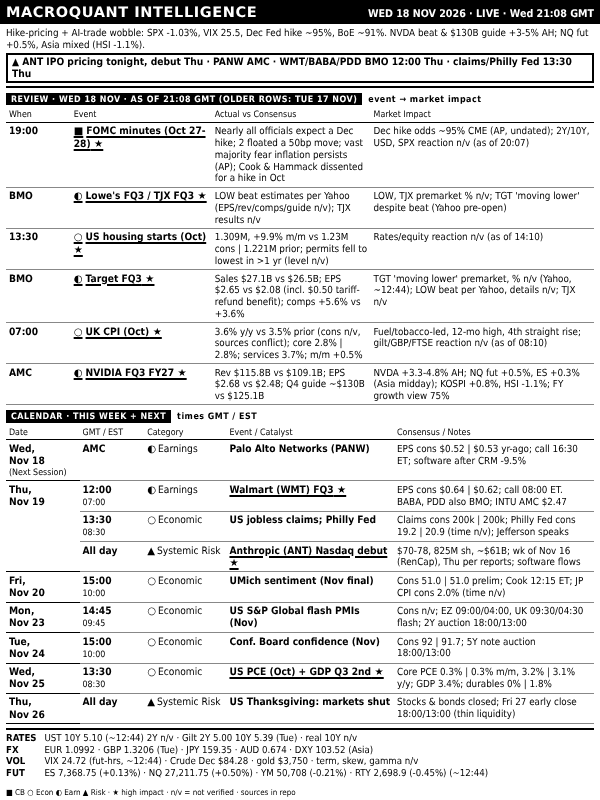
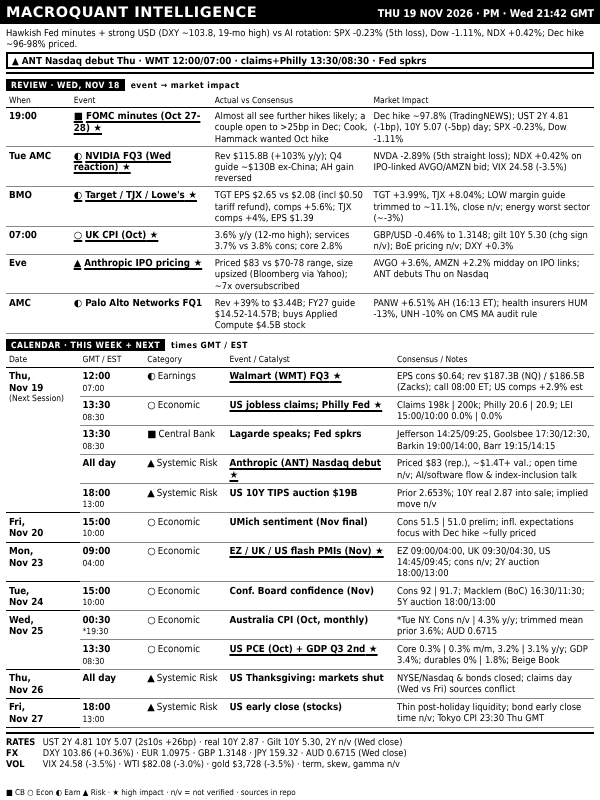
dashboard: THU 19 NOV 2026 PM
Claude-Session: https://claude.ai/code/session_016SJqa6nqQUeuUDpDvfcpZ9

Changed region(s): [[0.0, 0.0, 0.99, 0.9688]]

diff --git a/out/dashboard.html b/out/dashboard.html
@@ -38,12 +38,12 @@ table.bd{border-collapse:collapse;width:100%;table-layout:fixed;margin-top:1px}
 </style></head><body>
 <div id="root">
  <div class="hdr"><span class="t">MACROQUANT INTELLIGENCE</span>
-  <span class="r">WED 18 NOV 2026 · LIVE · Wed 21:08 GMT</span></div>
- <div class="ban"><div class="rg">Hike-pricing + AI-trade wobble: SPX -1.03%, VIX 25.5, Dec Fed hike ~95%, BoE ~91%. NVDA beat &amp; $130B guide +3-5% AH; NQ fut +0.5%, Asia mixed (HSI -1.1%).</div><div class="al">▲ ANT IPO pricing tonight, debut Thu · PANW AMC · WMT/BABA/PDD BMO 12:00 Thu · claims/Philly Fed 13:30 Thu</div></div>
- <div class="sl"><span>REVIEW · WED 18 NOV · AS OF 21:08 GMT (OLDER ROWS: TUE 17 NOV)</span>event → market impact</div><table class="bd rv"><colgroup><col style="width:11%"><col style="width:24%"><col style="width:27%"><col></colgroup><tr><th>When</th><th>Event</th><th>Actual vs Consensus</th><th>Market Impact</th></tr><tr class="h"><td class="tm"><b>19:00</b></td><td class="ev"><i>■</i>FOMC minutes (Oct 27-28)</td><td class="ac">Nearly all officials expect a Dec hike; 2 floated a 50bp move; vast majority fear inflation persists (AP); Cook &amp; Hammack dissented for a hike in Oct</td><td class="nt">Dec hike odds ~95% CME (AP, undated); 2Y/10Y, USD, SPX reaction n/v (as of 20:07)</td></tr><tr class="h"><td class="tm"><b>BMO</b></td><td class="ev"><i>◐</i>Lowe's FQ3 / TJX FQ3</td><td class="ac">LOW beat estimates per Yahoo (EPS/rev/comps/guide n/v); TJX results n/v</td><td class="nt">LOW, TJX premarket % n/v; TGT 'moving lower' despite beat (Yahoo pre-open)</td></tr><tr class="h"><td class="tm"><b>13:30</b></td><td class="ev"><i>○</i>US housing starts (Oct)</td><td class="ac">1.309M, +9.9% m/m vs 1.23M cons | 1.221M prior; permits fell to lowest in &gt;1 yr (level n/v)</td><td class="nt">Rates/equity reaction n/v (as of 14:10)</td></tr><tr class="h"><td class="tm"><b>BMO</b></td><td class="ev"><i>◐</i>Target FQ3</td><td class="ac">Sales $27.1B vs $26.5B; EPS $2.65 vs $2.08 (incl. $0.50 tariff-refund benefit); comps +5.6% vs +3.6%</td><td class="nt">TGT 'moving lower' premarket, % n/v (Yahoo, ~12:44); LOW beat per Yahoo, details n/v; TJX n/v</td></tr><tr class="h"><td class="tm"><b>07:00</b></td><td class="ev"><i>○</i>UK CPI (Oct)</td><td class="ac">3.6% y/y vs 3.5% prior (cons n/v, sources conflict); core 2.8% | 2.8%; services 3.7%; m/m +0.5%</td><td class="nt">Fuel/tobacco-led, 12-mo high, 4th straight rise; gilt/GBP/FTSE reaction n/v (as of 08:10)</td></tr><tr class="h"><td class="tm"><b>AMC</b></td><td class="ev"><i>◐</i>NVIDIA FQ3 FY27</td><td class="ac">Rev $115.8B vs $109.1B; EPS $2.68 vs $2.48; Q4 guide ~$130B vs $125.1B</td><td class="nt">NVDA +3.3-4.8% AH; NQ fut +0.5%, ES +0.3% (Asia midday); KOSPI +0.8%, HSI -1.1%; FY growth view 75%</td></tr></table>
+  <span class="r">THU 19 NOV 2026 · PM · Wed 21:42 GMT</span></div>
+ <div class="ban"><div class="rg">Hawkish Fed minutes + strong USD (DXY ~103.8, 19-mo high) vs AI rotation: SPX -0.23% (5th loss), Dow -1.11%, NDX +0.42%; Dec hike ~96-98% priced.</div><div class="al">▲ ANT Nasdaq debut Thu · WMT 12:00/07:00 · claims+Philly 13:30/08:30 · Fed spkrs</div></div>
+ <div class="sl"><span>REVIEW · WED, NOV 18</span>event → market impact</div><table class="bd rv"><colgroup><col style="width:11%"><col style="width:24%"><col style="width:27%"><col></colgroup><tr><th>When</th><th>Event</th><th>Actual vs Consensus</th><th>Market Impact</th></tr><tr class="h"><td class="tm"><b>19:00</b></td><td class="ev"><i>■</i>FOMC minutes (Oct 27-28)</td><td class="ac">Almost all see further hikes likely; a couple open to &gt;25bp in Dec; Cook, Hammack wanted Oct hike</td><td class="nt">Dec hike ~97.8% (TradingNEWS); UST 2Y 4.81 (-1bp), 10Y 5.07 (-5bp) day; SPX -0.23%, Dow -1.11%</td></tr><tr class="h"><td class="tm"><b>Tue AMC</b></td><td class="ev"><i>◐</i>NVIDIA FQ3 (Wed reaction)</td><td class="ac">Rev $115.8B (+103% y/y); Q4 guide ~$130B ex-China; AH gain reversed</td><td class="nt">NVDA -2.89% (5th straight loss); NDX +0.42% on IPO-linked AVGO/AMZN bid; VIX 24.58 (-3.5%)</td></tr><tr class="h"><td class="tm"><b>BMO</b></td><td class="ev"><i>◐</i>Target / TJX / Lowe's</td><td class="ac">TGT EPS $2.65 vs $2.08 (incl $0.50 tariff refund), comps +5.6%; TJX comps +4%, EPS $1.39</td><td class="nt">TGT +3.99%, TJX +8.04%; LOW margin guide trimmed to ~11.1%, close n/v; energy worst sector (~-3%)</td></tr><tr class="h"><td class="tm"><b>07:00</b></td><td class="ev"><i>○</i>UK CPI (Oct)</td><td class="ac">3.6% y/y (12-mo high); services 3.7% vs 3.8% cons; core 2.8%</td><td class="nt">GBP/USD -0.46% to 1.3148; gilt 10Y 5.30 (chg sign n/v); BoE pricing n/v; DXY +0.3%</td></tr><tr class="h"><td class="tm"><b>Eve</b></td><td class="ev"><i>▲</i>Anthropic IPO pricing</td><td class="ac">Priced $83 vs $70-78 range, size upsized (Bloomberg via Yahoo); ~7x oversubscribed</td><td class="nt">AVGO +3.6%, AMZN +2.2% midday on IPO links; ANT debuts Thu on Nasdaq</td></tr><tr><td class="tm"><b>AMC</b></td><td class="ev"><i>◐</i>Palo Alto Networks FQ1</td><td class="ac">Rev +39% to $3.44B; FY27 guide $14.52-14.57B; buys Applied Compute $4.5B stock</td><td class="nt">PANW +6.51% AH (16:13 ET); health insurers HUM -13%, UNH -10% on CMS MA audit rule</td></tr></table>
  <div class="sl"><span>CALENDAR · THIS WEEK + NEXT</span>times GMT / EST</div>
- <table class="bd"><colgroup><col style="width:12.5%"><col style="width:11%"><col style="width:14%"><col style="width:28.5%"><col></colgroup><tr><th>Date</th><th>GMT / EST</th><th>Category</th><th>Event / Catalyst</th><th>Consensus / Notes</th></tr><tr class="g0"><td class="dt" rowspan="1">Wed,<br>Nov&nbsp;18<span class="tg">(Next Session)</span></td><td class="tm"><b>AMC</b></td><td class="ct"><i>◐</i>Earnings</td><td class="ev">Palo Alto Networks (PANW)</td><td class="nt">EPS cons $0.52 | $0.53 yr-ago; call 16:30 ET; software after CRM -9.5%</td></tr><tr class="g0 h"><td class="dt" rowspan="3">Thu,<br>Nov&nbsp;19</td><td class="tm"><b>12:00</b><span>07:00</span></td><td class="ct"><i>◐</i>Earnings</td><td class="ev">Walmart (WMT) FQ3</td><td class="nt">EPS cons $0.64 | $0.62; call 08:00 ET. BABA, PDD also BMO; INTU AMC $2.47</td></tr><tr class=""><td class="tm"><b>13:30</b><span>08:30</span></td><td class="ct"><i>○</i>Economic</td><td class="ev">US jobless claims; Philly Fed</td><td class="nt">Claims cons 200k | 200k; Philly Fed cons 19.2 | 20.9 (time n/v); Jefferson speaks</td></tr><tr class="h"><td class="tm"><b>All day</b></td><td class="ct"><i>▲</i>Systemic Risk</td><td class="ev">Anthropic (ANT) Nasdaq debut</td><td class="nt">$70-78, 825M sh, ~$61B; wk of Nov 16 (RenCap), Thu per reports; software flows</td></tr><tr class="g0"><td class="dt" rowspan="1">Fri,<br>Nov&nbsp;20</td><td class="tm"><b>15:00</b><span>10:00</span></td><td class="ct"><i>○</i>Economic</td><td class="ev">UMich sentiment (Nov final)</td><td class="nt">Cons 51.0 | 51.0 prelim; Cook 12:15 ET; JP CPI cons 2.0% (time n/v)</td></tr><tr class="g0"><td class="dt" rowspan="1">Mon,<br>Nov&nbsp;23</td><td class="tm"><b>14:45</b><span>09:45</span></td><td class="ct"><i>○</i>Economic</td><td class="ev">US S&amp;P Global flash PMIs (Nov)</td><td class="nt">Cons n/v; EZ 09:00/04:00, UK 09:30/04:30 flash; 2Y auction 18:00/13:00</td></tr><tr class="g0"><td class="dt" rowspan="1">Tue,<br>Nov&nbsp;24</td><td class="tm"><b>15:00</b><span>10:00</span></td><td class="ct"><i>○</i>Economic</td><td class="ev">Conf. Board confidence (Nov)</td><td class="nt">Cons 92 | 91.7; 5Y note auction 18:00/13:00</td></tr><tr class="g0 h"><td class="dt" rowspan="1">Wed,<br>Nov&nbsp;25</td><td class="tm"><b>13:30</b><span>08:30</span></td><td class="ct"><i>○</i>Economic</td><td class="ev">US PCE (Oct) + GDP Q3 2nd</td><td class="nt">Core PCE 0.3% | 0.3% m/m, 3.2% | 3.1% y/y; GDP 3.4%; durables 0% | 1.8%</td></tr><tr class="g0"><td class="dt" rowspan="1">Thu,<br>Nov&nbsp;26</td><td class="tm"><b>All day</b></td><td class="ct"><i>▲</i>Systemic Risk</td><td class="ev">US Thanksgiving: markets shut</td><td class="nt">Stocks &amp; bonds closed; Fri 27 early close 18:00/13:00 (thin liquidity)</td></tr></table>
- <div class="lv"><div><b>RATES</b>UST 10Y 5.10 (~12:44) 2Y n/v · Gilt 2Y 5.00 10Y 5.39 (Tue) · real 10Y n/v</div><div><b>FX</b>EUR 1.0992 · GBP 1.3206 (Tue) · JPY 159.35 · AUD 0.674 · DXY 103.52 (Asia)</div><div><b>VOL</b>VIX 24.72 (fut-hrs, ~12:44) · Crude Dec $84.28 · gold $3,750 · term, skew, gamma n/v</div><div><b>FUT</b>ES 7,368.75 (+0.13%) · NQ 27,211.75 (+0.50%) · YM 50,708 (-0.21%) · RTY 2,698.9 (-0.45%) (~12:44)</div></div>
+ <table class="bd"><colgroup><col style="width:12.5%"><col style="width:11%"><col style="width:14%"><col style="width:28.5%"><col></colgroup><tr><th>Date</th><th>GMT / EST</th><th>Category</th><th>Event / Catalyst</th><th>Consensus / Notes</th></tr><tr class="g0 h"><td class="dt" rowspan="5">Thu,<br>Nov&nbsp;19<span class="tg">(Next Session)</span></td><td class="tm"><b>12:00</b><span>07:00</span></td><td class="ct"><i>◐</i>Earnings</td><td class="ev">Walmart (WMT) FQ3</td><td class="nt">EPS cons $0.64; rev $187.3B (NQ) / $186.5B (Zacks); call 08:00 ET; US comps +2.9% est</td></tr><tr class="h"><td class="tm"><b>13:30</b><span>08:30</span></td><td class="ct"><i>○</i>Economic</td><td class="ev">US jobless claims; Philly Fed</td><td class="nt">Claims 198k | 200k; Philly 20.6 | 20.9; LEI 15:00/10:00 0.0% | 0.0%</td></tr><tr class=""><td class="tm"><b>13:30</b><span>08:30</span></td><td class="ct"><i>■</i>Central Bank</td><td class="ev">Lagarde speaks; Fed spkrs</td><td class="nt">Jefferson 14:25/09:25, Goolsbee 17:30/12:30, Barkin 19:00/14:00, Barr 19:15/14:15</td></tr><tr class="h"><td class="tm"><b>All day</b></td><td class="ct"><i>▲</i>Systemic Risk</td><td class="ev">Anthropic (ANT) Nasdaq debut</td><td class="nt">Priced $83 (rep.), ~$1.4T+ val.; open time n/v; AI/software flow &amp; index-inclusion talk</td></tr><tr class=""><td class="tm"><b>18:00</b><span>13:00</span></td><td class="ct"><i>▲</i>Systemic Risk</td><td class="ev">US 10Y TIPS auction $19B</td><td class="nt">Prior 2.653%; 10Y real 2.87 into sale; implied move n/v</td></tr><tr class="g0"><td class="dt" rowspan="1">Fri,<br>Nov&nbsp;20</td><td class="tm"><b>15:00</b><span>10:00</span></td><td class="ct"><i>○</i>Economic</td><td class="ev">UMich sentiment (Nov final)</td><td class="nt">Cons 51.5 | 51.0 prelim; infl. expectations focus with Dec hike ~fully priced</td></tr><tr class="g0 h"><td class="dt" rowspan="1">Mon,<br>Nov&nbsp;23</td><td class="tm"><b>09:00</b><span>04:00</span></td><td class="ct"><i>○</i>Economic</td><td class="ev">EZ / UK / US flash PMIs (Nov)</td><td class="nt">EZ 09:00/04:00, UK 09:30/04:30, US 14:45/09:45; cons n/v; 2Y auction 18:00/13:00</td></tr><tr class="g0"><td class="dt" rowspan="1">Tue,<br>Nov&nbsp;24</td><td class="tm"><b>15:00</b><span>10:00</span></td><td class="ct"><i>○</i>Economic</td><td class="ev">Conf. Board confidence (Nov)</td><td class="nt">Cons 92 | 91.7; Macklem (BoC) 16:30/11:30; 5Y auction 18:00/13:00</td></tr><tr class="g0"><td class="dt" rowspan="2">Wed,<br>Nov&nbsp;25</td><td class="tm"><b>00:30</b><span>*19:30</span></td><td class="ct"><i>○</i>Economic</td><td class="ev">Australia CPI (Oct, monthly)</td><td class="nt">*Tue NY. Cons n/v | 4.3% y/y; trimmed mean prior 3.6%; AUD 0.6715</td></tr><tr class="h"><td class="tm"><b>13:30</b><span>08:30</span></td><td class="ct"><i>○</i>Economic</td><td class="ev">US PCE (Oct) + GDP Q3 2nd</td><td class="nt">Core 0.3% | 0.3% m/m, 3.2% | 3.1% y/y; GDP 3.4%; durables 0% | 1.8%; Beige Book</td></tr><tr class="g0"><td class="dt" rowspan="1">Thu,<br>Nov&nbsp;26</td><td class="tm"><b>All day</b></td><td class="ct"><i>▲</i>Systemic Risk</td><td class="ev">US Thanksgiving: markets shut</td><td class="nt">NYSE/Nasdaq &amp; bonds closed; claims day (Wed vs Fri) sources conflict</td></tr><tr class="g0"><td class="dt" rowspan="1">Fri,<br>Nov&nbsp;27</td><td class="tm"><b>18:00</b><span>13:00</span></td><td class="ct"><i>▲</i>Systemic Risk</td><td class="ev">US early close (stocks)</td><td class="nt">Thin post-holiday liquidity; bond early close time n/v; Tokyo CPI 23:30 Thu GMT</td></tr></table>
+ <div class="lv"><div><b>RATES</b>UST 2Y 4.81 10Y 5.07 (2s10s +26bp) · real 10Y 2.87 · Gilt 10Y 5.30, 2Y n/v (Wed close)</div><div><b>FX</b>DXY 103.86 (+0.36%) · EUR 1.0975 · GBP 1.3148 · JPY 159.32 · AUD 0.6715 (Wed close)</div><div><b>VOL</b>VIX 24.58 (-3.5%) · WTI $82.08 (-3.0%) · gold $3,728 (-3.5%) · term, skew, gamma n/v</div></div>
 </div>
 <div class="foot">■ CB ○ Econ ◐ Earn ▲ Risk · ★ high impact · n/v = not verified · sources in repo</div>
 </body></html>
